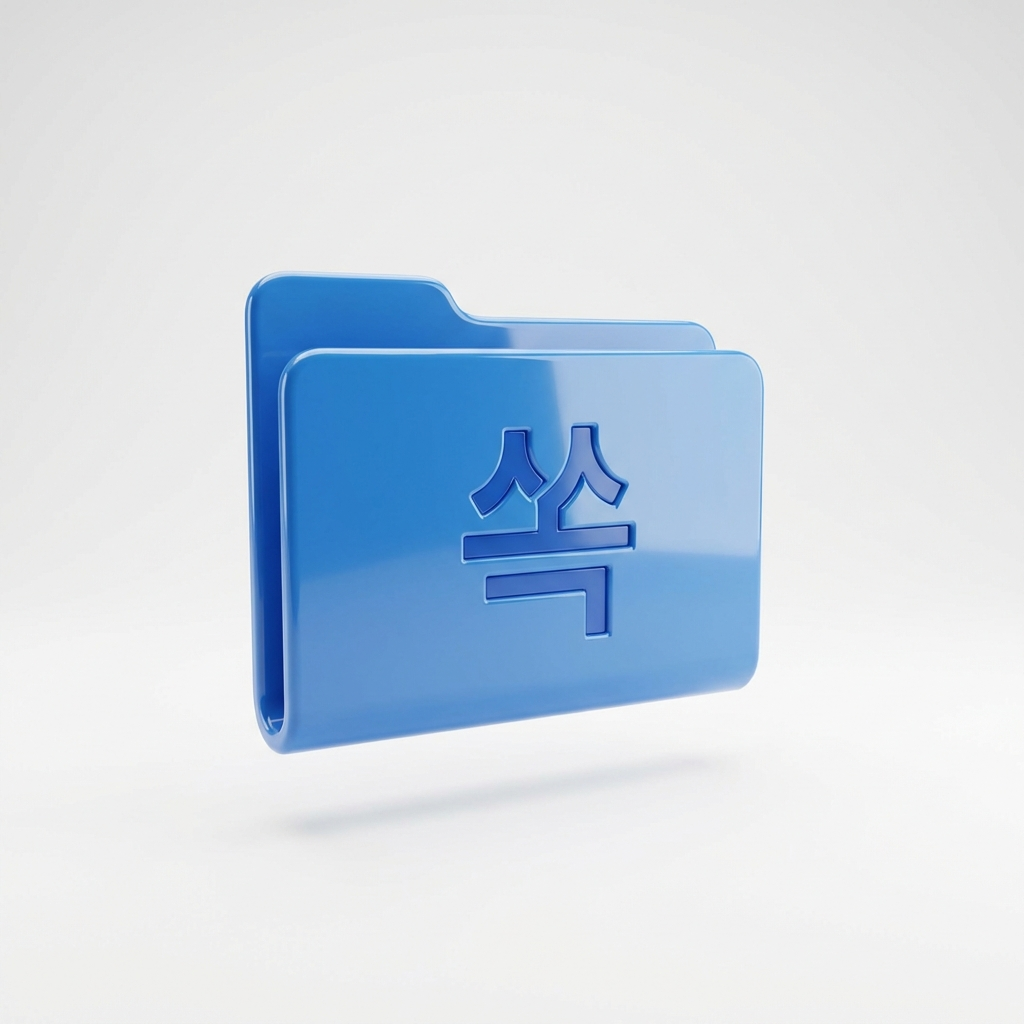
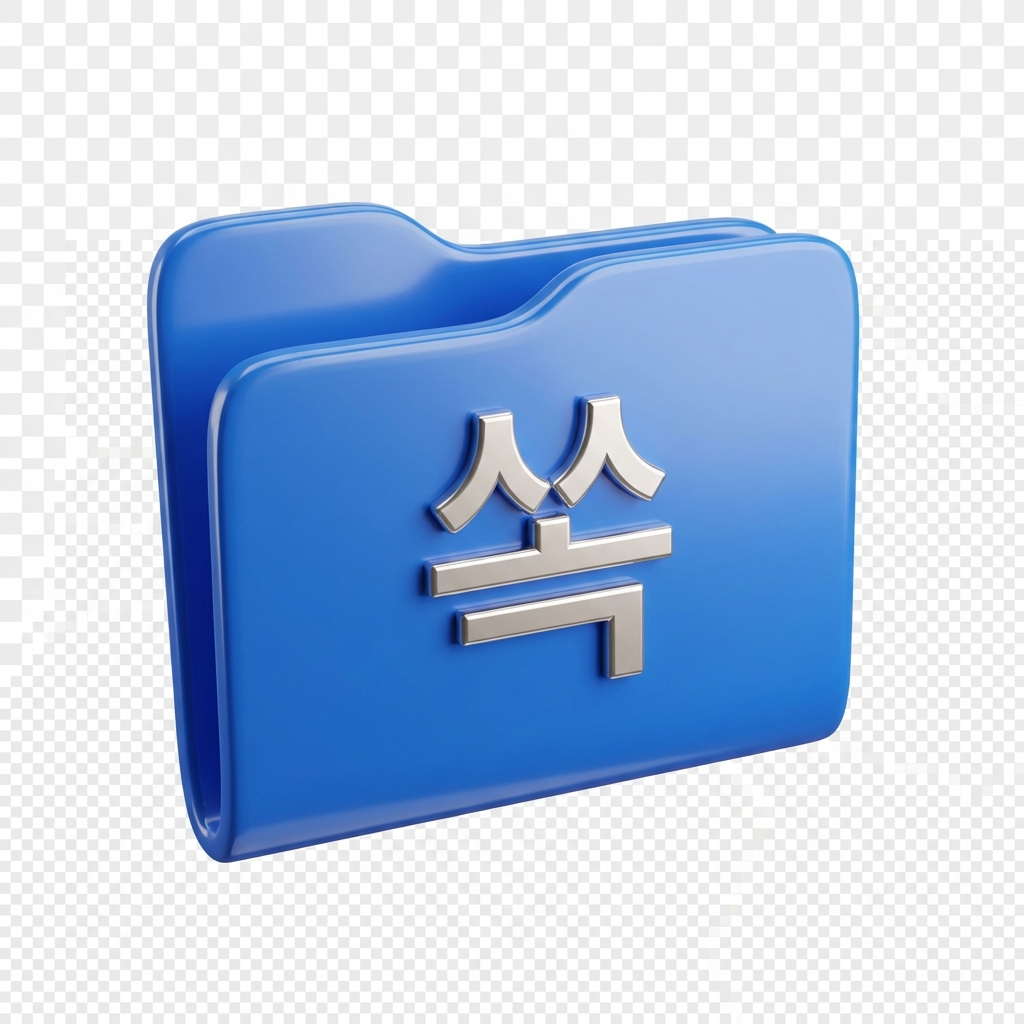
피드백 반영: 투명 이미지, 이모지 제거, 텍스트 정렬 개선

diff --git a/src/components/sections/Curriculum.tsx b/src/components/sections/Curriculum.tsx
@@ -24,46 +24,57 @@ export default function Curriculum() {
                 </div>
 
                 <div className="relative z-10 max-w-7xl mx-auto px-6 w-full py-32">
-                    <div className="grid lg:grid-cols-2 gap-16 items-center">
-                        {/* Left: Content */}
+                    <div className="grid lg:grid-cols-2 gap-20 items-center">
+                        {/* Left: Content - 더 여유롭게, 덜 형식적으로 */}
                         <motion.div
                             initial={{ opacity: 0, y: 30 }}
                             whileInView={{ opacity: 1, y: 0 }}
                             viewport={{ once: true }}
                             transition={{ duration: 0.8, ease: [0.16, 1, 0.3, 1] }}
-                            className="text-white"
+                            className="text-white lg:pl-8"
                         >
-                            <span className="label text-white/50 mb-4 block">커리큘럼</span>
-                            <h2 className="heading-section mb-8">
+                            <span className="text-sm font-medium text-blue-300 tracking-wide mb-6 block">
+                                커리큘럼
+                            </span>
+                            <h2 className="heading-section mb-10">
                                 체계적인 5트랙으로
                                 <br />
-                                <span className="text-white/70">완벽한 코딩 실력 완성</span>
+                                <span className="text-white/60">완벽한 코딩 실력 완성</span>
                             </h2>
 
-                            {/* Feature points */}
-                            <div className="space-y-4 mb-10">
-                                <p className="feature-point-white text-lg">실시간 학습 진도 추적 시스템</p>
-                                <p className="feature-point-white text-lg">개인 맞춤 AI 학습 도우미</p>
-                                <p className="feature-point-white text-lg">문제 발생 전 사전 알림</p>
+                            {/* Feature points - 자연스러운 문장 */}
+                            <div className="space-y-5 mb-12">
+                                <p className="flex items-center gap-4 text-white/90 text-lg">
+                                    <span className="text-blue-400">→</span>
+                                    실시간으로 학습 진도를 추적해드려요
+                                </p>
+                                <p className="flex items-center gap-4 text-white/90 text-lg">
+                                    <span className="text-blue-400">→</span>
+                                    맞춤형 AI가 학습을 도와드려요
+                                </p>
+                                <p className="flex items-center gap-4 text-white/90 text-lg">
+                                    <span className="text-blue-400">→</span>
+                                    문제가 생기기 전에 미리 알려드려요
+                                </p>
                             </div>
 
-                            {/* Quote */}
+                            {/* Quote - 더 자연스럽게 */}
                             <motion.div
-                                className="border-l-2 border-white/20 pl-6"
+                                className="border-l-2 border-white/30 pl-8"
                                 initial={{ opacity: 0, x: -20 }}
                                 whileInView={{ opacity: 1, x: 0 }}
                                 viewport={{ once: true }}
                                 transition={{ delay: 0.3, duration: 0.8 }}
                             >
-                                <p className="quote-white text-lg mb-4">
-                                    &quot;코딩쏙 덕분에 완전한 학습 관리 시스템을 갖추게 되었어요.
-                                    아이가 학습하는 동안 저희가 직접 챙기지 않아도 알아서 알려주세요.&quot;
+                                <p className="text-white/80 text-lg mb-4 leading-relaxed italic">
+                                    &quot;아이가 스스로 열심히 하더라고요.
+                                    저희가 일일이 챙기지 않아도 알아서 알려주니까 너무 편해요.&quot;
                                 </p>
-                                <p className="text-white/50 text-sm">— 초등 6학년 학부모</p>
+                                <p className="text-white/40 text-sm">초등 6학년 학부모님</p>
                             </motion.div>
                         </motion.div>
 
-                        {/* Right: Phone Mockup */}
+                        {/* Right: Phone Mockup - 투명 배경 */}
                         <motion.div
                             initial={{ opacity: 0, x: 60 }}
                             whileInView={{ opacity: 1, x: 0 }}
@@ -78,8 +89,8 @@ export default function Curriculum() {
                                 <Image
                                     src="/images/phone.png"
                                     alt="Mobile learning app"
-                                    width={300}
-                                    height={600}
+                                    width={280}
+                                    height={560}
                                     className="drop-shadow-2xl"
                                 />
                             </motion.div>
@@ -91,30 +102,41 @@ export default function Curriculum() {
             {/* Section 2: Split Layout */}
             <section className="relative min-h-[80vh]">
                 <div className="grid lg:grid-cols-2 min-h-[80vh]">
-                    {/* Left: White with content */}
+                    {/* Left: White with content - 패딩 개선 */}
                     <div className="bg-white py-24 px-6 lg:px-16 flex items-center">
-                        <div className="max-w-lg ml-auto">
+                        <div className="max-w-lg ml-auto lg:pr-8">
                             <motion.div
                                 initial={{ opacity: 0, y: 30 }}
                                 whileInView={{ opacity: 1, y: 0 }}
                                 viewport={{ once: true }}
                                 transition={{ duration: 0.8 }}
                             >
-                                <span className="label mb-6 block">실시간 소통</span>
-                                <h2 className="heading-section mb-6">
-                                    모든 정보가
+                                <span className="text-sm font-medium text-blue-600 tracking-wide mb-6 block">
+                                    실시간 소통
+                                </span>
+                                <h2 className="heading-section mb-8">
+                                    언제든 연락주세요.
                                     <br />
-                                    <span className="text-gray-400">실시간으로 공유됩니다</span>
+                                    <span className="text-gray-400">바로 답변드릴게요.</span>
                                 </h2>
-                                <p className="text-body-lg mb-8">
-                                    코딩쏙은 학부모님과 학생이 있는 곳에서 함께합니다 —
-                                    업데이트 공유, 질문 답변, 문제 해결까지 알아서 처리합니다.
+                                <p className="text-body-lg mb-10 leading-relaxed">
+                                    카카오톡, 문자, 전화 — 편하신 방법으로 연락주시면 됩니다.
+                                    학습 상담부터 진도 문의까지 실시간으로 도와드려요.
                                 </p>
 
                                 <div className="space-y-4 mb-10">
-                                    <p className="feature-point">카카오톡, 문자, 이메일로 즉시 응답</p>
-                                    <p className="feature-point">학습 상담 및 진도 문의 실시간 처리</p>
-                                    <p className="feature-point">학부모님과 학생에게 실시간 정보 제공</p>
+                                    <p className="flex items-center gap-4 text-gray-600 text-lg">
+                                        <span className="text-blue-500">→</span>
+                                        카카오톡으로 바로 상담
+                                    </p>
+                                    <p className="flex items-center gap-4 text-gray-600 text-lg">
+                                        <span className="text-blue-500">→</span>
+                                        수업 진도 실시간 확인
+                                    </p>
+                                    <p className="flex items-center gap-4 text-gray-600 text-lg">
+                                        <span className="text-blue-500">→</span>
+                                        중요한 알림은 자동 발송
+                                    </p>
                                 </div>
 
                                 <motion.a
@@ -123,7 +145,7 @@ export default function Curriculum() {
                                     whileHover={{ scale: 1.02 }}
                                     whileTap={{ scale: 0.98 }}
                                 >
-                                    상담 신청 <span className="opacity-60">→</span>
+                                    상담 신청하기 <span className="opacity-60">→</span>
                                 </motion.a>
                             </motion.div>
                         </div>
@@ -151,17 +173,17 @@ export default function Curriculum() {
                                 {/* Chat messages */}
                                 <div className="space-y-4">
                                     <div className="flex justify-end">
-                                        <div className="bg-blue-500 text-white px-4 py-2 rounded-2xl rounded-br-sm text-sm max-w-[200px]">
+                                        <div className="bg-blue-500 text-white px-5 py-3 rounded-2xl rounded-br-sm text-sm max-w-[220px]">
                                             우리 아이 진도가 어떻게 되나요?
                                         </div>
                                     </div>
 
                                     <div className="flex items-start gap-3">
-                                        <div className="w-8 h-8 rounded-lg bg-black flex items-center justify-center flex-shrink-0">
+                                        <div className="w-9 h-9 rounded-lg bg-black flex items-center justify-center flex-shrink-0">
                                             <span className="text-white text-xs font-bold">쏙</span>
                                         </div>
-                                        <div className="bg-white border px-4 py-2 rounded-2xl rounded-bl-sm text-sm shadow-sm">
-                                            Python 3장까지 완료했고, 다음 수업은 6월 26일 예정입니다! 🎉
+                                        <div className="bg-white border px-5 py-3 rounded-2xl rounded-bl-sm text-sm shadow-sm">
+                                            Python 3장까지 완료했어요! 다음 수업은 수요일이에요 :)
                                         </div>
                                     </div>
                                 </div>

diff --git a/src/components/sections/Hero.tsx b/src/components/sections/Hero.tsx
@@ -17,40 +17,42 @@ export default function Hero() {
                     quality={95}
                 />
                 {/* Gradient Overlay */}
-                <div className="absolute inset-0 bg-gradient-to-b from-white/60 via-white/30 to-white/80" />
+                <div className="absolute inset-0 bg-gradient-to-b from-white/70 via-white/40 to-white/80" />
             </div>
 
             <div className="relative z-10 max-w-7xl mx-auto px-6 w-full py-32">
                 <div className="grid lg:grid-cols-2 gap-16 items-center">
-                    {/* Left: Content */}
+                    {/* Left: Content - 더 중앙으로, 덜 형식적으로 */}
                     <motion.div
                         initial={{ opacity: 0, y: 40 }}
                         animate={{ opacity: 1, y: 0 }}
                         transition={{ duration: 0.8, ease: [0.16, 1, 0.3, 1] }}
+                        className="lg:pl-8"
                     >
                         <motion.div
                             initial={{ opacity: 0, y: 20 }}
                             animate={{ opacity: 1, y: 0 }}
                             transition={{ delay: 0.2, duration: 0.6 }}
-                            className="mb-6"
+                            className="mb-8"
                         >
-                            <span className="label">AI 시대의 코딩 교육</span>
+                            <span className="text-sm font-medium text-blue-600 tracking-wide">
+                                AI 시대의 코딩 교육
+                            </span>
                         </motion.div>
 
                         <h1 className="heading-hero mb-8 text-black">
                             역량을 &apos;쏙&apos; 채우는,
                             <br />
-                            <span className="text-gray-500">프리미엄 코딩 교육.</span>
+                            <span className="text-gray-400">프리미엄 코딩 교육.</span>
                         </h1>
 
-                        <p className="text-body-lg mb-10 max-w-lg">
+                        <p className="text-body-lg mb-12 max-w-md leading-relaxed">
                             C·Python 중심 텍스트코딩 강화로 프로젝트·공모전·자격증까지.
-                            <br />
                             IT 현직 전문가가 직접 설계하고 가르칩니다.
                         </p>
 
                         {/* CTAs */}
-                        <div className="flex flex-wrap gap-4">
+                        <div className="flex flex-wrap gap-4 mb-12">
                             <motion.a
                                 href="#contact"
                                 className="btn-primary"
@@ -70,80 +72,79 @@ export default function Hero() {
                             </motion.a>
                         </div>
 
-                        {/* Trust Badges */}
+                        {/* Trust Badges - 이모지 제거, 텍스트만 */}
                         <motion.div
-                            className="mt-12 flex items-center gap-6"
+                            className="flex items-center gap-8"
                             initial={{ opacity: 0 }}
                             animate={{ opacity: 1 }}
                             transition={{ delay: 0.6, duration: 0.8 }}
                         >
-                            <div className="flex items-center gap-2">
-                                <span className="text-2xl">🏆</span>
+                            <div className="flex items-center gap-3">
+                                <div className="w-2 h-2 rounded-full bg-blue-500" />
                                 <span className="text-sm text-gray-500">정보올림피아드 수상</span>
                             </div>
-                            <div className="h-4 w-px bg-gray-200" />
-                            <div className="flex items-center gap-2">
-                                <span className="text-2xl">👨💻</span>
+                            <div className="flex items-center gap-3">
+                                <div className="w-2 h-2 rounded-full bg-green-500" />
                                 <span className="text-sm text-gray-500">현직 개발자 강사진</span>
                             </div>
                         </motion.div>
                     </motion.div>
 
-                    {/* Right: Premium Product Shot */}
+                    {/* Right: Premium Product Shot - 투명 이미지 적용 */}
                     <motion.div
                         initial={{ opacity: 0, x: 60 }}
                         animate={{ opacity: 1, x: 0 }}
                         transition={{ duration: 1, delay: 0.3, ease: [0.16, 1, 0.3, 1] }}
-                        className="relative hidden lg:block"
+                        className="relative hidden lg:block h-[600px]"
                     >
-                        {/* 3D Folder */}
+                        {/* 3D Folder - 투명 배경 */}
                         <motion.div
-                            className="absolute -left-8 top-8 z-20"
+                            className="absolute left-0 top-12 z-20"
                             animate={{ y: [0, -15, 0] }}
                             transition={{ duration: 5, repeat: Infinity, ease: "easeInOut" }}
                         >
                             <Image
                                 src="/images/folder-3d.png"
                                 alt="3D folder"
-                                width={180}
-                                height={180}
+                                width={160}
+                                height={160}
                                 className="drop-shadow-2xl"
                             />
                         </motion.div>
 
-                        {/* Dashboard Tablet */}
+                        {/* Dashboard Tablet - 투명 배경 */}
                         <motion.div
-                            className="relative z-10"
+                            className="absolute left-8 top-20 z-10"
                             animate={{ y: [0, -10, 0] }}
                             transition={{ duration: 6, repeat: Infinity, ease: "easeInOut", delay: 0.5 }}
                         >
                             <Image
                                 src="/images/dashboard.png"
                                 alt="Learning dashboard"
-                                width={500}
-                                height={400}
-                                className="rounded-2xl drop-shadow-2xl"
+                                width={450}
+                                height={340}
+                                className="drop-shadow-2xl"
                             />
                         </motion.div>
 
-                        {/* Floating Phone */}
+                        {/* Floating Phone - 투명 배경 */}
                         <motion.div
-                            className="absolute -right-12 -bottom-8 z-30"
+                            className="absolute right-0 bottom-0 z-30"
                             animate={{ y: [0, -12, 0] }}
                             transition={{ duration: 4, repeat: Infinity, ease: "easeInOut", delay: 1 }}
                         >
                             <Image
                                 src="/images/phone.png"
                                 alt="Mobile app"
-                                width={200}
-                                height={400}
+                                width={180}
+                                height={360}
                                 className="drop-shadow-2xl"
                             />
                         </motion.div>
 
                         {/* Floating Badge */}
                         <motion.div
-                            className="absolute top-4 right-0 z-40 card-glass px-4 py-3"
+                            className="absolute top-4 right-4 z-40 card-glass px-5 py-3"
                             animate={{ y: [0, -8, 0] }}
                             transition={{ duration: 3, repeat: Infinity, ease: "easeInOut", delay: 0.2 }}
                         >
